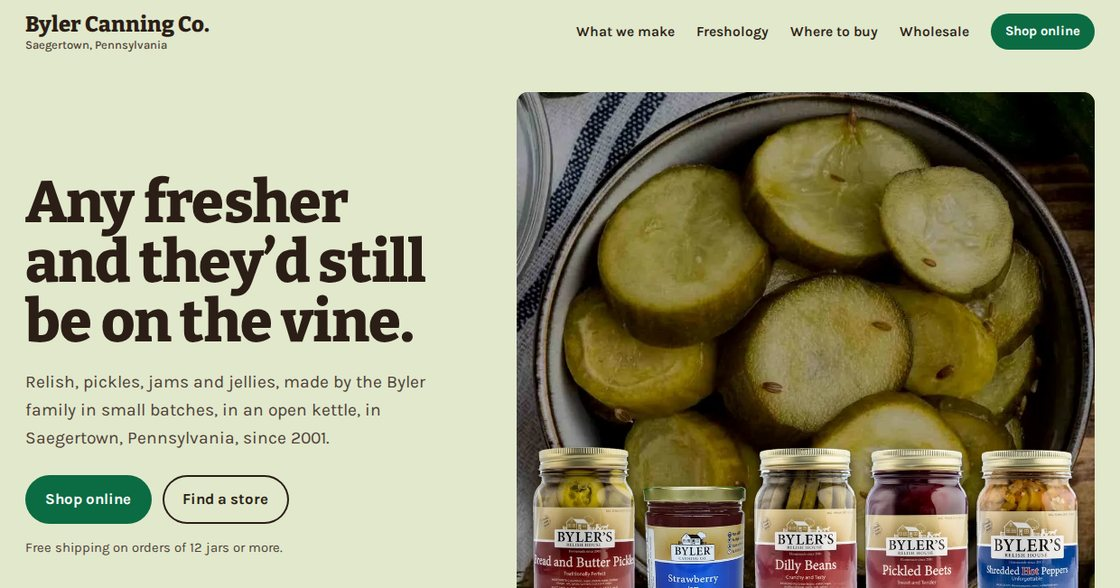
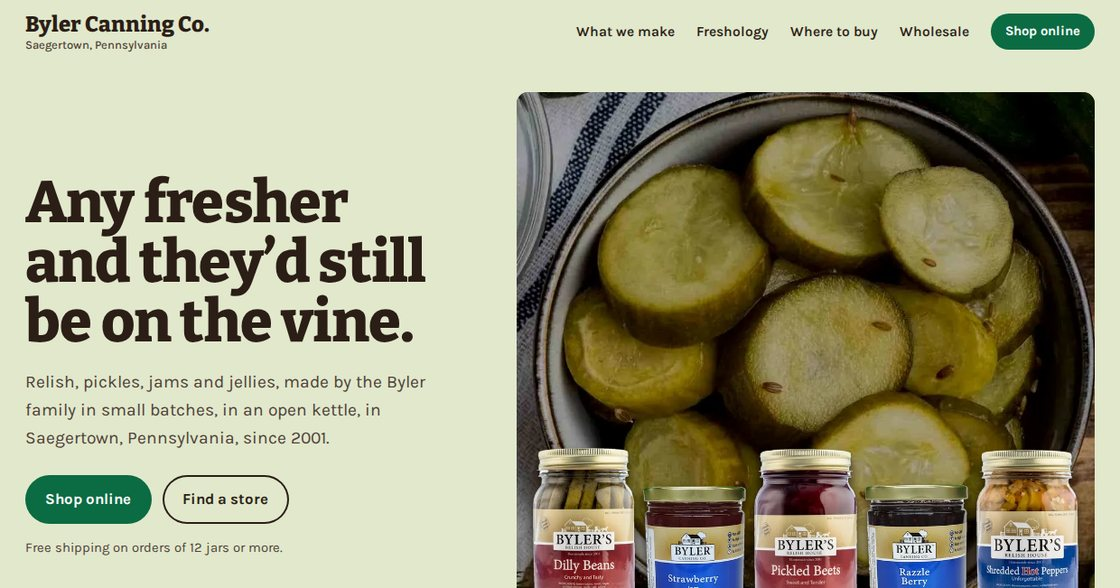
Previews: 11 ativos

Changed region(s): [[0.6562, 0.7653, 0.875, 1.0], [0.4688, 0.7347, 0.5938, 1.0]]

diff --git a/byler-canning-pa/index.html b/byler-canning-pa/index.html
@@ -152,7 +152,7 @@
   .trade .btn { margin-top: 1.4rem; background: #e0b46c; color: var(--ink); }
   .trade .btn:hover { background: #ecc685; }
   .trade a:not(.btn) { color: #fff; }
-  .trade-top { display: grid; grid-template-columns: minmax(0, 6fr) minmax(0, 5fr); gap: clamp(2rem, 5vw, 4.5rem); align-items: center; }
+  .trade-top { display: grid; grid-template-columns: minmax(0, 6fr) minmax(0, 5fr); gap: clamp(2rem, 5vw, 4.5rem); align-items: start; }
   .trade-top img { width: 100%; aspect-ratio: 5 / 4; object-fit: cover; border-radius: .6rem; }
   .trade-top figcaption { margin-top: .55rem; font-size: .875rem; color: #b9ae9f; }
 
@@ -236,10 +236,10 @@
         <div class="stage">
           <img src="img/hero-600.webp" srcset="img/hero-600.webp 600w, img/hero-1000.webp 1000w" sizes="(max-width: 860px) calc(100vw - 2rem), 640px" width="600" height="540" alt="A bowl of sliced pickles with fresh cucumbers, dill and coarse salt" fetchpriority="high">
           <div class="shelf" role="group" aria-label="Byler jars">
-            <a href="https://bylercanningco.com/bread-and-butter-pickles/"><img src="img/cut-bread-butter-200.webp" srcset="img/cut-bread-butter-200.webp 200w, img/cut-bread-butter-400.webp 400w" sizes="(max-width: 860px) 66px, 118px" width="200" height="344" alt="Bread and Butter Pickles"></a>
-            <a href="https://bylercanningco.com/strawberry-jam-11-oz/"><img src="img/cut-strawberry-200.webp" srcset="img/cut-strawberry-200.webp 200w, img/cut-strawberry-400.webp 400w" sizes="(max-width: 860px) 66px, 118px" width="200" height="268" alt="Strawberry Jam"></a>
             <a href="https://bylercanningco.com/dilly-beans/"><img src="img/cut-dilly-beans-200.webp" srcset="img/cut-dilly-beans-200.webp 200w, img/cut-dilly-beans-400.webp 400w" sizes="(max-width: 860px) 66px, 118px" width="200" height="341" alt="Dilly Beans"></a>
-            <a class="wide" href="https://bylercanningco.com/pickled-beets/"><img src="img/cut-beets-200.webp" srcset="img/cut-beets-200.webp 200w, img/cut-beets-400.webp 400w" sizes="(max-width: 860px) 66px, 118px" width="200" height="339" alt="Pickled Beets"></a>
+            <a href="https://bylercanningco.com/strawberry-jam-11-oz/"><img src="img/cut-strawberry-200.webp" srcset="img/cut-strawberry-200.webp 200w, img/cut-strawberry-400.webp 400w" sizes="(max-width: 860px) 66px, 118px" width="200" height="268" alt="Strawberry Jam"></a>
+            <a href="https://bylercanningco.com/pickled-beets/"><img src="img/cut-beets-200.webp" srcset="img/cut-beets-200.webp 200w, img/cut-beets-400.webp 400w" sizes="(max-width: 860px) 66px, 118px" width="200" height="339" alt="Pickled Beets"></a>
+            <a class="wide" href="https://bylercanningco.com/razzle-berry-jam-11-oz/"><img src="img/cut-razzle-200.webp" srcset="img/cut-razzle-200.webp 200w, img/cut-razzle-400.webp 400w" sizes="(max-width: 860px) 66px, 118px" width="200" height="271" alt="Razzle Berry Jam"></a>
             <a href="https://bylercanningco.com/shredded-hot-peppers-in-oil/"><img src="img/cut-hot-peppers-200.webp" srcset="img/cut-hot-peppers-200.webp 200w, img/cut-hot-peppers-400.webp 400w" sizes="(max-width: 860px) 66px, 118px" width="200" height="338" alt="Shredded Hot Peppers in Oil"></a>
           </div>
         </div>
